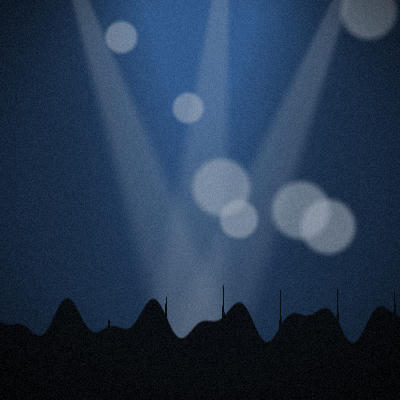
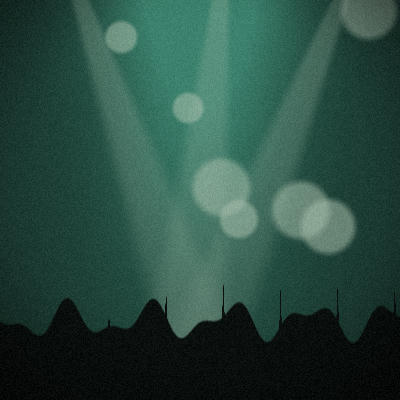
Keep clippy quiet about the artist repair and its OST test

diff --git a/crates/import/tests/streams.rs b/crates/import/tests/streams.rs
@@ -403,7 +403,7 @@ async fn a_torrent_album_scattered_over_strangers_goes_back_together_once() {
 fn omori(root: &Root) -> std::path::PathBuf {
     let files = [(1, "Title", 3.0), (2, "By Your Side.", 4.0), (3, "Final Duet", 3.0)];
     let composers = ["Pedro Silva", "Jami Lynne", "bo en"];
-    torrent_folder(&root, "OMORI OST - Pedro Silva, Jami Lynne, bo en (2020)", &files, |no, title| TagSet {
+    torrent_folder(root, "OMORI OST - Pedro Silva, Jami Lynne, bo en (2020)", &files, |no, title| TagSet {
         title: Some(title.into()),
         artist: Some(composers[no as usize - 1].into()),
         album_artist: Some("OMORI".into()),

diff --git a/crates/import/src/repair.rs b/crates/import/src/repair.rs
@@ -428,7 +428,7 @@ impl Importer {
                 }
                 let Ok((tags, _)) = tags::read_tags(&file) else { continue };
                 let Some(own) = tags.artist.clone().filter(|a| !a.trim().is_empty()) else { continue };
-                if shares_artist(&[own.clone()], &[track.artist.clone()]) {
+                if shares_artist(std::slice::from_ref(&own), std::slice::from_ref(&track.artist)) {
                     continue;
                 }
                 if move_files && lib.active_source(track.id)?.is_some_and(|s| s.kind.is_local() && long_path(Path::new(&s.locator)).exists()) {
